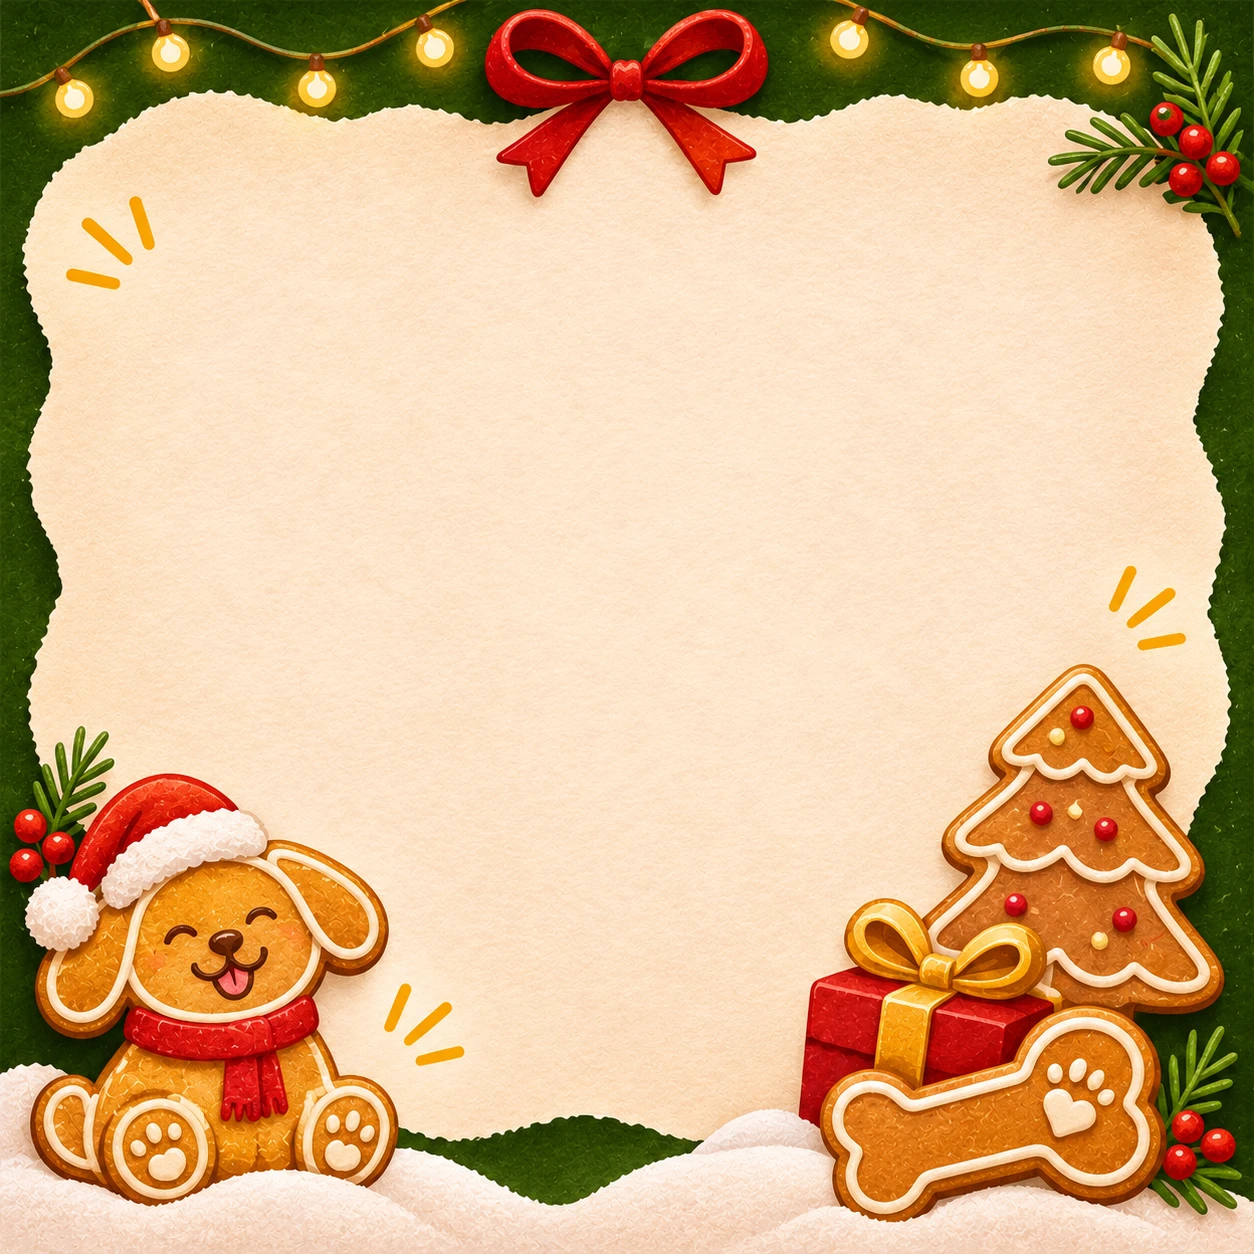
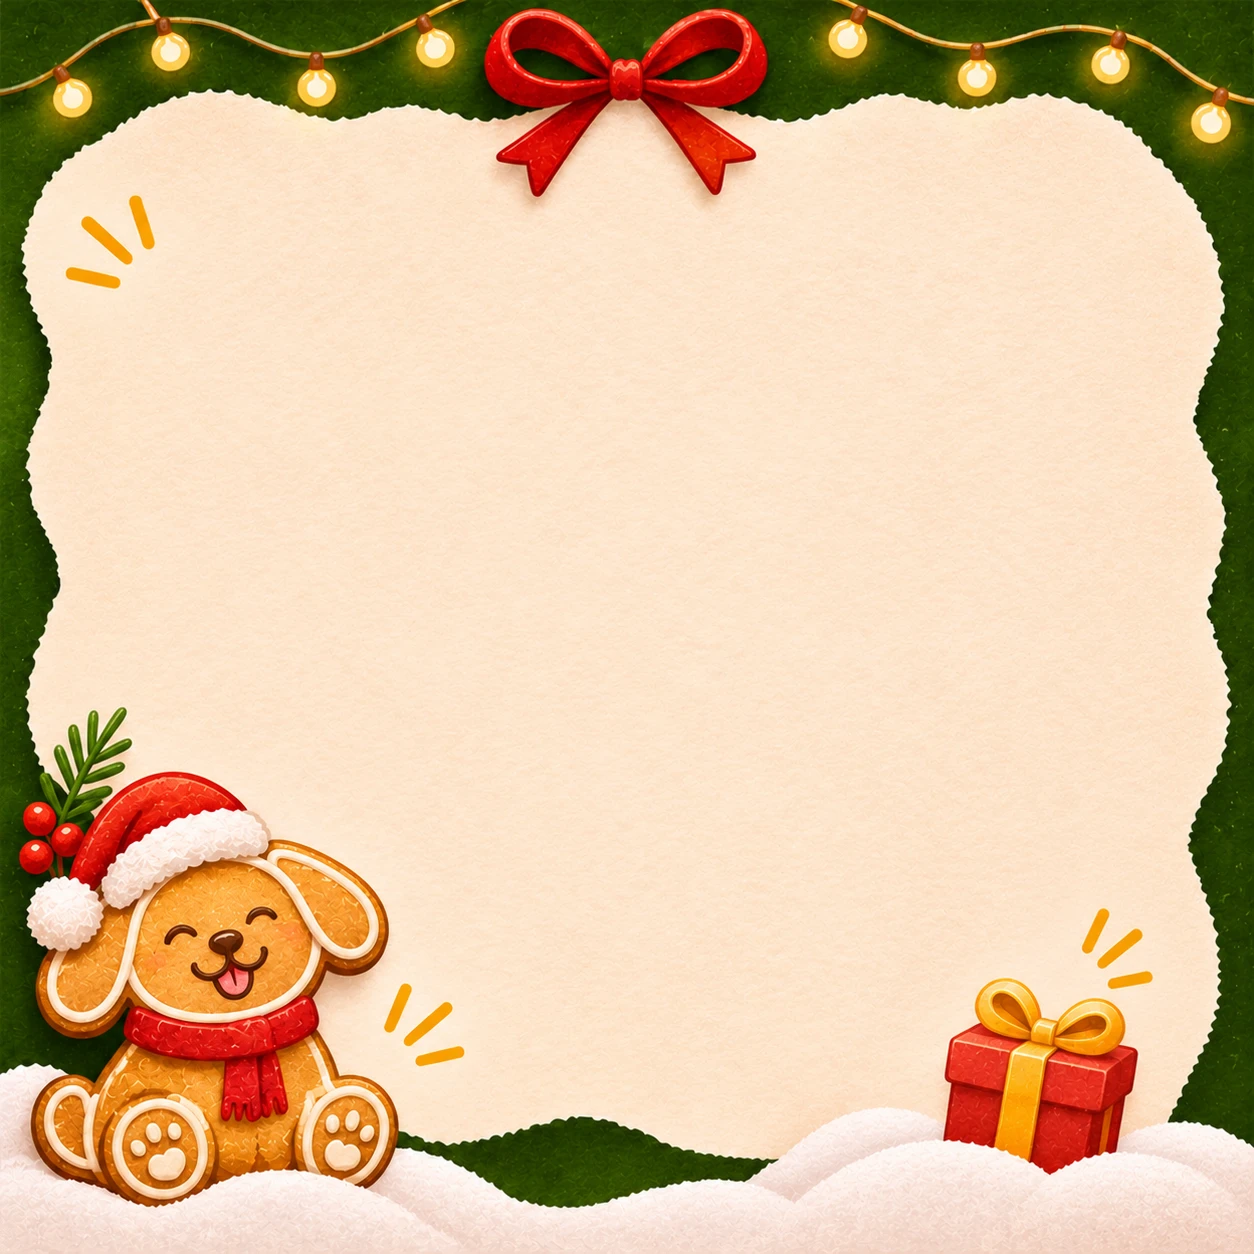
feat: add Polaroid component and update letter templates

diff --git a/src/components/Polaroid.tsx b/src/components/Polaroid.tsx
@@ -1,0 +1,91 @@
+interface PolaroidProps {
+  accentColor: string
+  className?: string
+  photoAlt: string
+  photoUrl?: string
+}
+
+export function Polaroid({
+  accentColor,
+  className = '',
+  photoAlt,
+  photoUrl,
+}: PolaroidProps) {
+  return (
+    <figure
+      className={`relative m-0 aspect-[0.9] bg-[#fffdf8] p-[5%] pb-[17%] shadow-[0_4px_10px_rgb(64_51_45_/_16%)] ring-1 ring-[#eadfd2] ${className}`}
+    >
+      <div className="aspect-square w-full overflow-hidden rounded-[2%] bg-[#f3ebe3] shadow-inner">
+        {photoUrl && (
+          <img
+            alt={photoAlt}
+            className="size-full object-cover object-center"
+            draggable="false"
+            src={photoUrl}
+          />
+        )}
+      </div>
+
+      <div
+        aria-hidden="true"
+        className="absolute -top-[8%] left-1/2 flex h-[13%] w-[48%] -translate-x-1/2 items-center justify-center shadow-sm"
+        style={{
+          backgroundColor: accentColor,
+          clipPath: 'polygon(3% 7%, 97% 0, 100% 88%, 95% 100%, 4% 94%, 0 12%)',
+        }}
+      >
+        <svg
+          className="h-[62%] w-[82%]"
+          fill="none"
+          viewBox="0 0 120 36"
+          xmlns="http://www.w3.org/2000/svg"
+        >
+          <path
+            d="M7 10C7 4 15 3 18 9C21 3 29 4 29 10C29 17 18 23 18 23S7 17 7 10Z"
+            stroke="#FFFDF8"
+            strokeLinecap="round"
+            strokeLinejoin="round"
+            strokeWidth="3"
+          />
+          <path
+            d="M47 13C47 8 53 7 56 12C59 7 65 8 65 13C65 19 56 24 56 24S47 19 47 13Z"
+            stroke="#FFFDF8"
+            strokeLinecap="round"
+            strokeLinejoin="round"
+            strokeWidth="3"
+          />
+          <path
+            d="M84 8C84 2 92 2 95 8C98 2 106 2 106 8C106 15 95 21 95 21S84 15 84 8Z"
+            stroke="#FFFDF8"
+            strokeLinecap="round"
+            strokeLinejoin="round"
+            strokeWidth="3"
+          />
+        </svg>
+      </div>
+
+      <svg
+        aria-hidden="true"
+        className="absolute bottom-[4.5%] left-[7%] h-[11%] w-[15%]"
+        fill={accentColor}
+        viewBox="0 0 64 52"
+        xmlns="http://www.w3.org/2000/svg"
+      >
+        <ellipse cx="11" cy="19" rx="6" ry="8" />
+        <ellipse cx="25" cy="10" rx="6" ry="8" />
+        <ellipse cx="40" cy="11" rx="6" ry="8" />
+        <ellipse cx="52" cy="20" rx="5" ry="7" />
+        <path d="M9 41C9 31 18 23 30 23C42 23 50 31 49 41C48 49 40 51 31 47C22 52 9 49 9 41Z" />
+      </svg>
+
+      <svg
+        aria-hidden="true"
+        className="absolute -top-[2%] -right-[9%] h-[19%] w-[20%]"
+        fill="none"
+        viewBox="0 0 54 54"
+        xmlns="http://www.w3.org/2000/svg"
+      >
+      </svg>
+    </figure>
+  )
+}

diff --git a/src/config/templates.ts b/src/config/templates.ts
@@ -1,20 +1,14 @@
 import classicPost from '../assets/templates/classic/post.webp'
-import classicPolaroid from '../assets/templates/classic/polaroid.webp'
 import gingerbreadPost from '../assets/templates/gingerbread/post.webp'
-import gingerbreadPolaroid from '../assets/templates/gingerbread/polaroid.webp'
 import reindeerPost from '../assets/templates/reindeer/post.webp'
-import reindeerPolaroid from '../assets/templates/reindeer/polaroid.webp'
 import snowmanPost from '../assets/templates/snowman/post.webp'
-import snowmanPolaroid from '../assets/templates/snowman/polaroid.webp'
 import type { TemplateId } from '../types/letter'
 
 export interface LetterTemplate {
   accent: string
   id: TemplateId
   name: string
-  polaroid: string
   post: string
-  rotation: number
 }
 
 export const letterTemplates: LetterTemplate[] = [
@@ -22,33 +16,25 @@ export const letterTemplates: LetterTemplate[] = [
     id: 'classic',
     name: 'Classic',
     post: classicPost,
-    polaroid: classicPolaroid,
     accent: '#C92D35',
-    rotation: -3,
   },
   {
     id: 'gingerbread',
     name: 'Gingerbread',
     post: gingerbreadPost,
-    polaroid: gingerbreadPolaroid,
-    accent: '#A85B35',
-    rotation: -3,
+    accent: '#5F7F16',
   },
   {
     id: 'snowman',
     name: 'Snowman',
     post: snowmanPost,
-    polaroid: snowmanPolaroid,
     accent: '#4D8FA8',
-    rotation: -3,
   },
   {
     id: 'reindeer',
     name: 'Reindeer',
     post: reindeerPost,
-    polaroid: reindeerPolaroid,
-    accent: '#7D4A32',
-    rotation: -3,
+    accent: '#642A78',
   },
 ]
 

diff --git a/src/components/LetterPreview.tsx b/src/components/LetterPreview.tsx
@@ -1,5 +1,6 @@
 import { getLetterTemplate } from '../config/templates'
 import type { LetterData } from '../types/letter'
+import { Polaroid } from './Polaroid'
 import { SectionTitle } from './SectionTitle'
 
 interface LetterPreviewProps {
@@ -33,22 +34,15 @@ export function LetterPreview({ data }: LetterPreviewProps) {
           <div
             className="relative aspect-square w-[110%]"
             style={{
-              transform: `translate(-5%, -30%) rotate(${-template.rotation}deg)`,
+              transform: 'translate(-5%, -30%)',
             }}
           >
-            <img
-              alt=""
-              aria-hidden="true"
-              className="absolute inset-0 size-full object-contain"
-              src={template.polaroid}
+            <Polaroid
+              accentColor={template.accent}
+              className="absolute top-[4%] left-[8%] w-[84%] rounded-[2.5%]"
+              photoAlt={`Foto de ${petName}`}
+              photoUrl={data.photoUrl}
             />
-            {data.photoUrl && (
-              <img
-                alt={`Foto de ${petName}`}
-                className="absolute top-[17%] left-[14%] h-[59%] w-[70%] -rotate-2 object-cover"
-                src={data.photoUrl}
-              />
-            )}
           </div>
 
           <div className="flex min-w-0 flex-col text-left">
